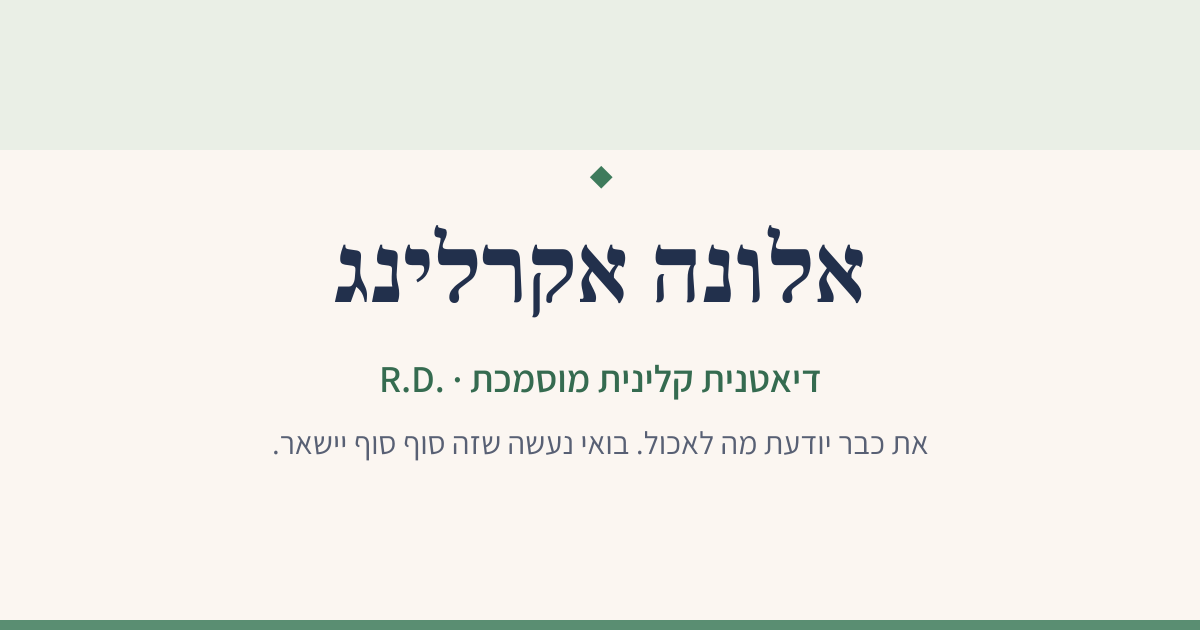
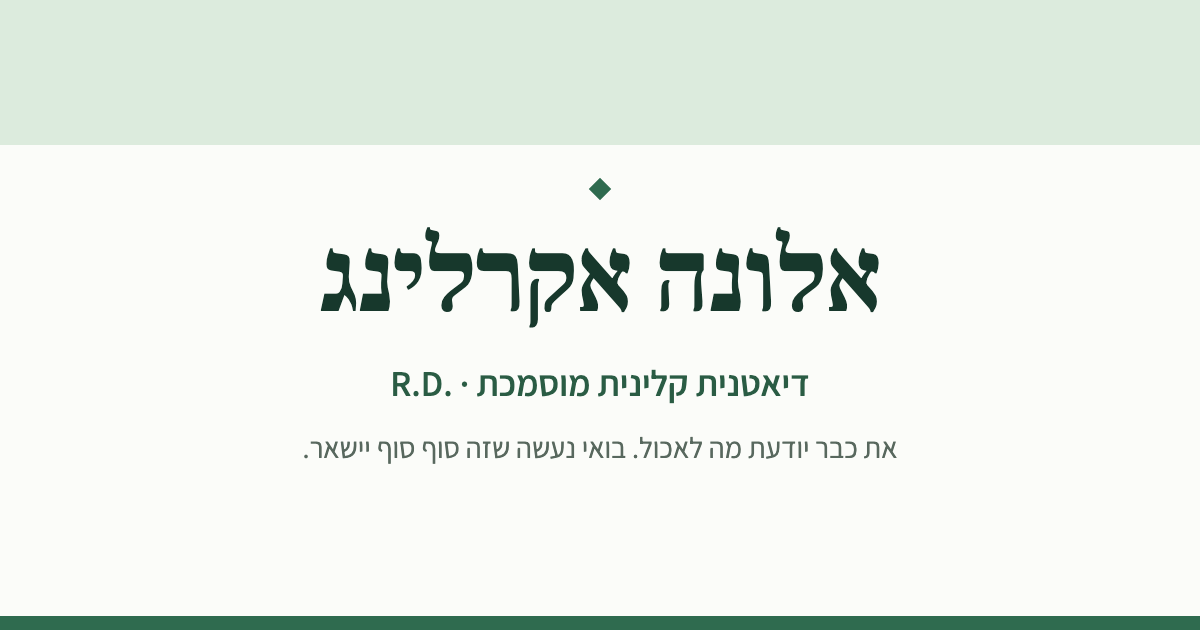
studio: COPY.md synced to the running site + palette-consistency round + debts closed.
COPY SYNC: both COPY.md copies (root + site) now match the live strings from the anti-AI and UX rounds — headings untouched (lint-compose verbatim), removed elements annotated in place, structural splits recorded, one dated changelog line. lint-copy + lint-compose clean.
PALETTE CONSISTENCY (audit finding: gold #2F6B4F and navy #17382C are now BOTH dark greens, 2.04:1): CookieConsent accept → white label; team-page gold headline → gold-soft; StickyContactBar focus ring → white + soft hairline; footer brand stripe → ROSE (the thread closes every page, 5.07:1); about license certificate on-navy accents → gold-soft; the two dark-panel CTAs → gold-soft fill + navy label (10.36:1); a11y highlight outline → currentColor; prose ink de-blued to var(--color-ink); hand-rolled blue shadows → color-mix from the navy token (Header/AccessibilityMenu/BookShelf/RecipesArchive); CMS auth email/page → pine. Latent navy/caramel template components quarantined in DESIGN-AUDIT.
DEBTS: stable collection sort (date desc, slug tiebreak — same-day archive no longer reorders); OG/twitter/apple images regenerated in the pine palette (Playwright render, staged fonts, R.D. bidi isolate); about-18 wide-viewport dead strip gets a sand bookend band (xl+).
[…]

diff --git a/src/app/about/page.tsx b/src/app/about/page.tsx
@@ -247,6 +247,13 @@ export default function AboutPage() {
           <img src="/media/client/recipes/moroccan-fish.jpg" alt="" loading="lazy" className="h-full w-full object-cover" />
           <div aria-hidden className="pointer-events-none absolute inset-0" style={{ background: "var(--grade-tint)" }} />
         </div>
+        {/* wide-viewport bookend (audit D1): past the container on the letter's side
+            the bare paper margin read dead next to the busy photo — a quiet sand
+            band with a hairline turns it into a designed margin. xl+ only. */}
+        <div
+          aria-hidden
+          className="absolute inset-y-0 end-0 hidden w-[calc((100vw-var(--container-wide))/2)] border-s border-line bg-sand/70 xl:block"
+        />
         <div className="relative aspect-[3/2] md:hidden">
           {/* eslint-disable-next-line @next/next/no-img-element */}
           <img src="/media/client/recipes/moroccan-fish.jpg" alt="דגים מרוקאים של שישי, מנה אמיתית מהמטבח של אלונה" loading="lazy" className="absolute inset-0 h-full w-full object-cover" />
@@ -385,7 +392,7 @@ export default function AboutPage() {
             {/* the license certificate - the one navy cell, double-framed in gold */}
             <article
               className="frame-double relative rounded-[16px] bg-navy p-7 text-white md:p-9"
-              style={{ "--frame-gap": "8px", "--frame-color": "var(--color-gold)" } as React.CSSProperties}
+              style={{ "--frame-gap": "8px", "--frame-color": "var(--color-gold-soft)" } as React.CSSProperties}
             >
               <div className="flex items-start justify-between gap-5">
                 <div>
@@ -397,8 +404,8 @@ export default function AboutPage() {
                     {CREDENTIALS.anchor.line}
                   </p>
                 </div>
-                <span aria-hidden className="grid h-11 w-11 shrink-0 rotate-45 place-items-center border border-gold/60">
-                  <span className="-rotate-45 text-[0.7rem] leading-none text-gold">◆</span>
+                <span aria-hidden className="grid h-11 w-11 shrink-0 rotate-45 place-items-center border border-gold-soft/60">
+                  <span className="-rotate-45 text-[0.7rem] leading-none text-gold-soft">◆</span>
                 </span>
               </div>
               {/* the checkability promise is a REAL link: the MOH practitioners registry */}
@@ -407,7 +414,7 @@ export default function AboutPage() {
                 target="_blank"
                 rel="noopener noreferrer"
                 data-cta="about-credentials-verify"
-                className="btn-chamfer mt-7 inline-flex items-center gap-2.5 rounded-[6px] border border-gold/50 px-5 py-3 text-sm font-bold text-gold-soft transition hover:border-gold focus-visible:outline-none focus-visible:ring-2 focus-visible:ring-gold-soft focus-visible:ring-offset-2 focus-visible:ring-offset-navy"
+                className="btn-chamfer mt-7 inline-flex items-center gap-2.5 rounded-[6px] border border-gold-soft/50 px-5 py-3 text-sm font-bold text-gold-soft transition hover:border-gold-soft focus-visible:outline-none focus-visible:ring-2 focus-visible:ring-gold-soft focus-visible:ring-offset-2 focus-visible:ring-offset-navy"
               >
                 <span className="text-[0.6rem] leading-none" aria-hidden>◆</span>
                 {CREDENTIALS.anchor.verify}
@@ -527,7 +534,7 @@ export default function AboutPage() {
                   <Link
                     href="/contact"
                     data-cta="about-cta-call"
-                    className="btn-chamfer rounded-[6px] bg-gold px-8 py-4 text-[0.95rem] font-bold text-white focus-visible:outline-none focus-visible:ring-2 focus-visible:ring-gold-soft focus-visible:ring-offset-2 focus-visible:ring-offset-navy"
+                    className="btn-chamfer rounded-[6px] bg-gold-soft px-8 py-4 text-[0.95rem] font-bold text-navy transition hover:bg-white focus-visible:outline-none focus-visible:ring-2 focus-visible:ring-white focus-visible:ring-offset-2 focus-visible:ring-offset-navy"
                   >
                     {CLOSE.button}
                   </Link>

diff --git a/src/components/CookieConsent.tsx b/src/components/CookieConsent.tsx
@@ -30,12 +30,12 @@ export function CookieConsent() {
       aria-label="הסכמה לעוגיות"
       className="fixed inset-x-0 bottom-0 z-[60] px-3 pb-3 sm:px-4 sm:pb-4"
     >
-      <div className="mx-auto max-w-[var(--container-standard)] rounded-2xl border border-gold/30 bg-navy/95 p-5 text-right text-slate-200 shadow-[0_24px_70px_-30px_rgba(0,0,0,.8)] backdrop-blur-md sm:p-6">
+      <div className="mx-auto max-w-[var(--container-standard)] rounded-2xl border border-gold-soft/30 bg-navy/95 p-5 text-right text-slate-200 shadow-[0_24px_70px_-30px_rgba(0,0,0,.8)] backdrop-blur-md sm:p-6">
         <div className="flex flex-col gap-4 lg:flex-row lg:items-center lg:justify-between">
           <p className="text-sm leading-relaxed">
             אנו משתמשים בעוגיות חיוניות לתפקוד האתר, ובעוגיות מדידה — בכפוף להסכמתכם — כדי לשפר את
             השירות. תוכלו לשנות את בחירתכם בכל עת.{" "}
-            <Link href="/privacy" className="font-semibold text-gold-soft underline underline-offset-2 hover:text-gold">
+            <Link href="/privacy" className="font-semibold text-gold-soft underline underline-offset-2 hover:text-white">
               מדיניות הפרטיות
             </Link>
           </p>
@@ -44,7 +44,7 @@ export function CookieConsent() {
               type="button"
               onClick={() => choose("denied")}
               data-cta="cookie-deny"
-              className="rounded-[4px] border border-white/30 px-5 py-2.5 text-sm font-bold text-white transition hover:border-gold hover:text-gold-soft focus-visible:outline-none focus-visible:ring-2 focus-visible:ring-gold"
+              className="rounded-[4px] border border-white/30 px-5 py-2.5 text-sm font-bold text-white transition hover:border-gold-soft hover:text-gold-soft focus-visible:outline-none focus-visible:ring-2 focus-visible:ring-gold-soft"
             >
               עוגיות חיוניות בלבד
             </button>
@@ -52,7 +52,7 @@ export function CookieConsent() {
               type="button"
               onClick={() => choose("granted")}
               data-cta="cookie-accept"
-              className="rounded-[4px] bg-gold px-5 py-2.5 text-sm font-bold text-navy transition hover:bg-gold-soft focus-visible:outline-none focus-visible:ring-2 focus-visible:ring-white focus-visible:ring-offset-2 focus-visible:ring-offset-navy"
+              className="rounded-[4px] bg-gold px-5 py-2.5 text-sm font-bold text-white transition hover:bg-gold-dark focus-visible:outline-none focus-visible:ring-2 focus-visible:ring-white focus-visible:ring-offset-2 focus-visible:ring-offset-navy"
             >
               אישור הכל
             </button>

diff --git a/src/app/api/cms/auth/callback/route.ts b/src/app/api/cms/auth/callback/route.ts
@@ -42,10 +42,10 @@ function page(body: string): Response {
     `<!doctype html><html lang="${esc(HTML_LANG)}" dir="${esc(DIR)}"><head><meta charset="utf-8">` +
       `<meta name="viewport" content="width=device-width,initial-scale=1"><meta name="robots" content="noindex">` +
       `<title>${esc(t(LOCALE, "auth.confirmTitle", { name: site.name }))}</title>` +
-      `<style>body{font-family:system-ui,-apple-system,"Segoe UI",sans-serif;background:#F7F5F0;color:#0A1E3F;` +
+      `<style>body{font-family:system-ui,-apple-system,"Segoe UI",sans-serif;background:#F7F5F0;color:#17382C;` +
       `display:grid;place-items:center;min-height:100vh;margin:0}main{background:#fff;border:1px solid #E5E0D6;` +
       `border-radius:10px;padding:40px;max-width:420px;text-align:center}h1{font-size:1.4rem;margin:0 0 10px}` +
-      `p{color:#5B6472;line-height:1.7;margin:0 0 24px}button{background:#0A1E3F;color:#fff;border:0;` +
+      `p{color:#5B6472;line-height:1.7;margin:0 0 24px}button{background:#17382C;color:#fff;border:0;` +
       `border-radius:4px;padding:14px 28px;font-size:1rem;font-weight:700;cursor:pointer}` +
       `a{color:#8A6D2F}</style></head><body><main>${body}</main></body></html>`,
     { status: 200, headers: HEADERS },

diff --git a/src/components/StickyContactBar.tsx b/src/components/StickyContactBar.tsx
@@ -30,7 +30,7 @@ export function StickyContactBar({
       <div aria-hidden className="h-[calc(3.5rem+env(safe-area-inset-bottom))] md:hidden" />
       <nav
         aria-label="יצירת קשר מהירה"
-        className="fixed inset-x-0 bottom-0 z-50 border-t border-gold/40 bg-navy pb-[env(safe-area-inset-bottom)] md:hidden"
+        className="fixed inset-x-0 bottom-0 z-50 border-t border-gold-soft/40 bg-navy pb-[env(safe-area-inset-bottom)] md:hidden"
       >
         <div className="flex items-stretch">
           {whatsapp && (
@@ -48,7 +48,7 @@ export function StickyContactBar({
           <Link
             href={bookHref}
             data-cta="sticky-bar-book"
-            className="flex min-h-14 flex-1 items-center justify-center px-4 text-[0.95rem] font-bold text-white transition-colors hover:bg-navy-700 focus-visible:outline-none focus-visible:ring-2 focus-visible:ring-gold focus-visible:ring-inset"
+            className="flex min-h-14 flex-1 items-center justify-center px-4 text-[0.95rem] font-bold text-white transition-colors hover:bg-navy-700 focus-visible:outline-none focus-visible:ring-2 focus-visible:ring-white focus-visible:ring-inset"
           >
             {bookLabel}
           </Link>

diff --git a/src/components/media/BookShelf.tsx b/src/components/media/BookShelf.tsx
@@ -20,7 +20,7 @@ export function BookShelf({ items }: { items: Book[] }) {
             // that opens at the foot of the cover. The card itself only warms its
             // gold (color state, token-timed) — it no longer levitates-and-swells,
             // which was the same wallpaper lift every other card was doing.
-            className="group relative block aspect-[3/4] overflow-hidden rounded-[12px] border border-line bg-navy shadow-[0_18px_40px_-26px_rgba(10,30,63,.7)] transition-colors duration-[var(--dur-micro)] ease-[var(--ease-out)] hover:border-gold/70 focus-visible:outline-none focus-visible:ring-2 focus-visible:ring-gold focus-visible:ring-offset-2"
+            className="group relative block aspect-[3/4] overflow-hidden rounded-[12px] border border-line bg-navy shadow-[0_18px_40px_-26px_color-mix(in_srgb,var(--color-navy)_70%,transparent)] transition-colors duration-[var(--dur-micro)] ease-[var(--ease-out)] hover:border-gold/70 focus-visible:outline-none focus-visible:ring-2 focus-visible:ring-gold focus-visible:ring-offset-2"
           >
             {/* cover art — fills the whole frame */}
             <Image

diff --git a/src/app/sane-voice/page.tsx b/src/app/sane-voice/page.tsx
@@ -633,7 +633,7 @@ export default function SaneVoicePage() {
                       target="_blank"
                       rel="noopener noreferrer"
                       data-cta="product-checkout-buy"
-                      className="btn-chamfer block w-full rounded-[6px] bg-gold px-8 py-4 text-center text-base font-bold text-white focus-visible:outline-none focus-visible:ring-2 focus-visible:ring-white focus-visible:ring-offset-2 focus-visible:ring-offset-navy sm:inline-block sm:w-auto"
+                      className="btn-chamfer block w-full rounded-[6px] bg-gold-soft px-8 py-4 text-center text-base font-bold text-navy transition hover:bg-white focus-visible:outline-none focus-visible:ring-2 focus-visible:ring-white focus-visible:ring-offset-2 focus-visible:ring-offset-navy sm:inline-block sm:w-auto"
                     >
                       {CHECKOUT.ctaPrimary}
                     </a>

diff --git a/src/app/api/cms/auth/request/route.ts b/src/app/api/cms/auth/request/route.ts
@@ -69,7 +69,7 @@ export async function POST(request: NextRequest) {
           html:
             `<div dir="${DIR}" style="font-family:system-ui,sans-serif;line-height:1.7">` +
             `<p>${t(LOCALE, "auth.emailIntro", { name: site.name })}</p>` +
-            `<p><a href="${link}" style="background:#0A1E3F;color:#fff;padding:12px 22px;border-radius:4px;text-decoration:none;display:inline-block">${t(LOCALE, "auth.emailButton")}</a></p>` +
+            `<p><a href="${link}" style="background:#17382C;color:#fff;padding:12px 22px;border-radius:4px;text-decoration:none;display:inline-block">${t(LOCALE, "auth.emailButton")}</a></p>` +
             `<p style="color:#666;font-size:14px">${t(LOCALE, "auth.emailFootnote")}</p>` +
             `</div>`,
         }),

diff --git a/src/components/AccessibilityMenu.tsx b/src/components/AccessibilityMenu.tsx
@@ -137,7 +137,7 @@ export function AccessibilityMenu() {
           ref={panelRef}
           role="dialog"
           aria-label="הגדרות נגישות"
-          className="fixed bottom-20 left-4 z-[56] max-h-[75vh] w-[min(20rem,calc(100vw-2rem))] overflow-auto rounded-2xl border border-line bg-card p-4 text-right text-navy shadow-[0_24px_70px_-30px_rgba(10,30,63,.6)]"
+          className="fixed bottom-20 left-4 z-[56] max-h-[75vh] w-[min(20rem,calc(100vw-2rem))] overflow-auto rounded-2xl border border-line bg-card p-4 text-right text-navy shadow-[0_24px_70px_-30px_color-mix(in_srgb,var(--color-navy)_60%,transparent)]"
         >
           <div className="flex items-center justify-between">
             <button

diff --git a/src/lib/collections.ts b/src/lib/collections.ts
@@ -98,7 +98,12 @@ function readCollection(c: CollectionConfig): CollectionEntry[] {
   for (const e of entries) {
     e.hasAlternate = entries.some((q) => q.slug === e.slug && q.locale !== e.locale);
   }
-  return entries.sort((a, b) => (a.date < b.date ? 1 : -1));
+  // Stable order: newest first, equal dates tie-broken by slug — the old
+  // comparator returned -1 for equal dates (inconsistent), so same-day entries
+  // (e.g. a whole migrated archive) could reorder between builds/engines.
+  return entries.sort((a, b) =>
+    a.date < b.date ? 1 : a.date > b.date ? -1 : a.slug.localeCompare(b.slug),
+  );
 }
 
 // Published entries of one collection in one locale, newest first.

diff --git a/src/app/not-found.tsx b/src/app/not-found.tsx
@@ -46,7 +46,7 @@ export default function NotFound() {
           <Link
             href={cta.primary.href}
             data-cta="404-contact"
-            className="rounded-[4px] border border-white/30 px-7 py-3.5 text-[0.95rem] font-bold text-white transition hover:border-gold hover:text-gold-soft focus-visible:outline-none focus-visible:ring-2 focus-visible:ring-white"
+            className="rounded-[4px] border border-white/30 px-7 py-3.5 text-[0.95rem] font-bold text-white transition hover:border-gold-soft hover:text-gold-soft focus-visible:outline-none focus-visible:ring-2 focus-visible:ring-white"
           >
             {cta.primary.short}
           </Link>

diff --git a/src/components/SequenceFilm.tsx b/src/components/SequenceFilm.tsx
@@ -191,7 +191,11 @@ export function SequenceFilm({
               alt=""
               className="absolute inset-0 h-full w-full object-cover"
               style={{ opacity: k === 0 ? 1 : 0 }}
-              loading="eager"
+              // frame 0 is the poster (eager — the section opens on it); the other
+              // 13 full-viewport JPEGs ride native lazy-loading so they stop
+              // competing with the hero LCP on first load (they fetch as the
+              // reader approaches the film)
+              loading={k === 0 ? "eager" : "lazy"}
               decoding="async"
             />
           ))}

diff --git a/src/components/RecipesArchive.tsx b/src/components/RecipesArchive.tsx
@@ -176,7 +176,7 @@ function ImageTile({ t, feature }: { t: RecipeTile; feature: boolean }) {
       {/* the title rides ON the photo (client-requested magazine cover) */}
       <div className={`relative ${feature ? "p-6" : "p-5"}`}>
         <h3
-          className={`font-serif font-bold leading-snug text-white [text-shadow:0_1px_10px_rgba(10,30,63,0.45)] ${
+          className={`font-serif font-bold leading-snug text-white [text-shadow:0_1px_10px_color-mix(in_srgb,var(--color-navy)_45%,transparent)] ${
             feature ? "text-2xl md:text-3xl" : "text-lg"
           }`}
         >
